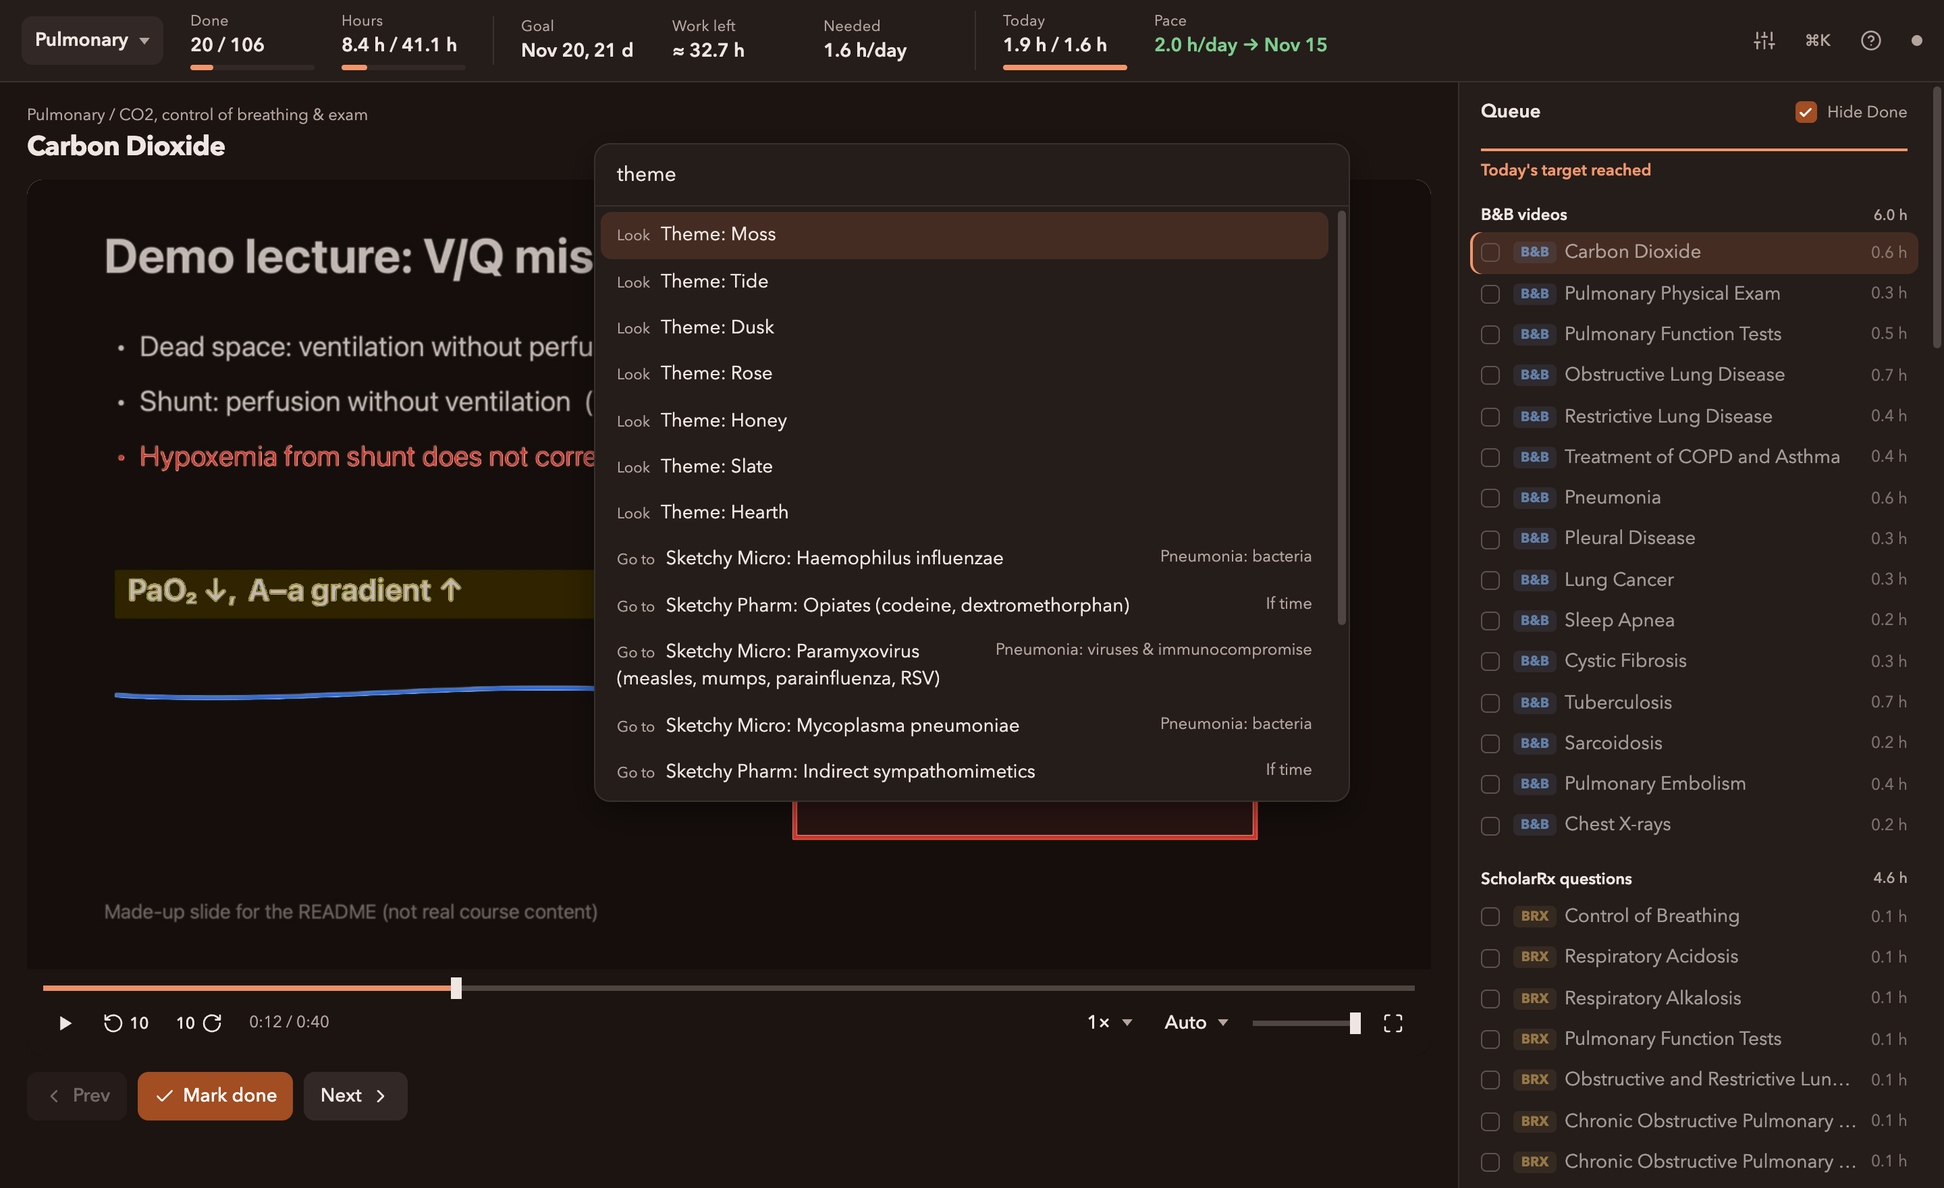
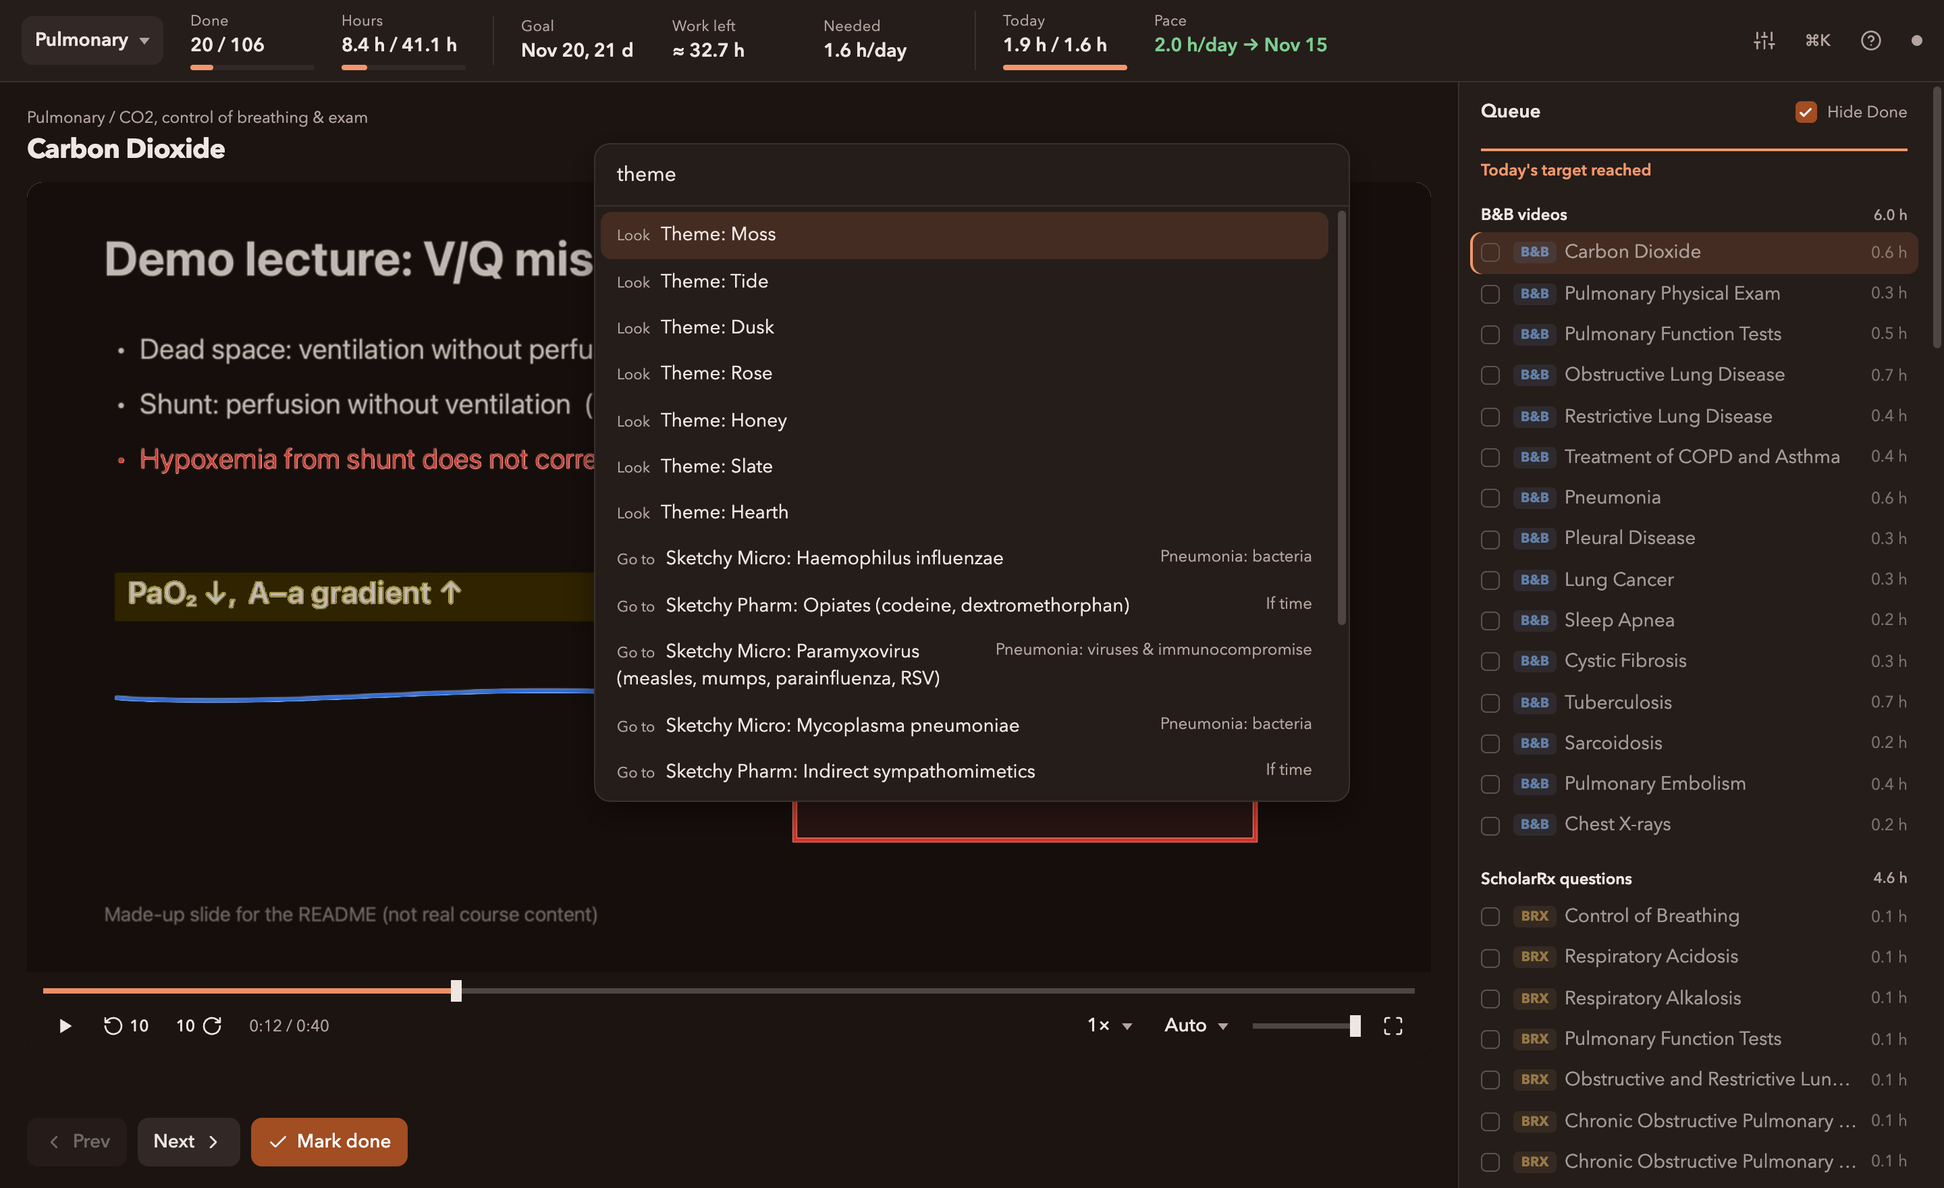
Keep controls in one place and stop video switches flashing
Prev and Next live in a fixed bar and come before Mark done, so they stay put
on every view. Titles and notes hold to one line, and bricks and AMBOSS share
one layout. A new video keeps the last picture up until its first frame at the
right spot is ready, and the slide-in between items is gone. Polls leave an
unchanged queue and header alone. Volume is remembered, and leaving the player
exits fullscreen.

diff --git a/static/app.js b/static/app.js
@@ -121,7 +121,7 @@ function renderStats() {
   }
   // three groups: overall progress | the goal and what it takes | today
   const group = (cls, ...stats) => `<div class="stat-group ${cls}">${stats.join("")}</div>`;
-  $("stats").innerHTML = [
+  const html = [
     group("",
       stat("Done", `${st.items.done} / ${st.items.count}`, "", st.items.done / st.items.count,
         `${st.items.videosDone}/${st.items.videos} videos`),
@@ -136,6 +136,9 @@ function renderStats() {
       stat("Today", `${hrs(st.todaySec)} / ${hrs(st.todayNeededSec)}`, "", st.todaySec / st.todayNeededSec),
       stat("Pace", pace, paceCls, null, "Last 3 study days → finish")),
   ].join("");
+  if (html === renderStats.html) { if (!$("settingsModal").hidden) renderSettingsResult(); return; }  // a poll with no news leaves the header alone
+  renderStats.html = html;
+  $("stats").innerHTML = html;
   animateStats();
   const goalGroup = $("stats").querySelector(".goal");
   goalGroup.dataset.tip = "Edit goal (,)";
@@ -261,7 +264,7 @@ function renderQueue() {
     }
     html += "</div>";
   }
-  $("queueList").innerHTML = html;
+  if (html !== renderQueue.html) $("queueList").innerHTML = renderQueue.html = html;
   syncQueue();
 }
 
@@ -330,6 +333,7 @@ function showItem(id) {
   $("ankiPanel").hidden = true;
   $("crumbs").textContent = `${S.block.name} / ${it.topic || it.cluster}`;
   $("itemTitle").textContent = it.title;
+  $("itemTitle").dataset.tip = it.title;
   $("itemNote").hidden = !it.note;
   $("itemNote").textContent = it.note || "";
   $("doneBtn").hidden = it.done;
@@ -341,29 +345,17 @@ function showItem(id) {
   $("player").hidden = !isVideo;
   $("task").hidden = isVideo;
   if (isVideo) setupVideo(it);
-  else { pauseVideo(); setupTask(it); }
+  else { pauseVideo(); setupTask(it); leaveFullscreen(); }
   document.querySelectorAll(".qi").forEach((el) => el.classList.toggle("current", el.dataset.id === curId));
   syncQueue();
-  entered(id, isVideo ? null : $("task"));
 }
-// Slide a new view in, from the side you're moving toward. Polling re-renders stay still.
-let shownView = null, navDir = 0;
-function entered(key, panel) {
-  if (key === shownView) return;
-  shownView = key;
-  cue($("itemHead"), "enter", navDir);
-  if (panel) cue(panel, "enter", navDir);
-  navDir = 0;
-}
-
 function setupTask(it) {
   const amb = it.type === "amboss";
   $("ambossFields").hidden = !amb;
-  $("brickLink").hidden = amb || !it.url;
-  if (it.url) $("brickLink").href = it.url;
-  $("taskKind").textContent = amb ? "AMBOSS questions" : "ScholarRx brick, end questions";
-  $("taskInstr").hidden = !amb;
-  $("taskInstr").textContent = amb ? `${it.questions} Q` : "";
+  $("taskLink").hidden = !amb && !it.url;
+  $("taskLink").href = amb ? "https://next.amboss.com/us/learning" : it.url || "";
+  $("taskLinkText").textContent = amb ? "Open AMBOSS" : "Open brick";
+  $("taskKind").textContent = amb ? `AMBOSS, ${it.questions} Q` : "ScholarRx brick, end questions";
   if (timer.id !== it.id) {  // first time showing this item (polling re-renders must not wipe input)
     timer.running = false;
     timer.id = it.id;
@@ -398,16 +390,56 @@ function setupVideo(it) {
     loadedVideoId = it.id;
     endShown = false;
     $("endCard").hidden = true;
+    freezeFrame();
+    const resume = it.pos > 5 && !(it.duration && it.pos >= it.duration - 20);
+    const l = loading = { it, resume };
+    clearTimeout(revealT);
+    revealT = setTimeout(() => l === loading && reveal(), 2000);
     video.src = `/media/${encodeURIComponent(blockId)}/${encodeURIComponent(it.id)}`;
-    video.addEventListener("loadedmetadata", () => {
-      if (it.pos > 5 && it.pos < video.duration - 20) video.currentTime = it.pos;
-      video.playbackRate = S.settings.rate || 1;
-    }, { once: true });
+    showTime(resume ? it.pos : 0, it.duration || 0);
   }
   rateDD.setValue(S.settings.rate || 1);
   darkDD.setValue(darkSetting(it));
-  applyDark(darkSetting(it));
+  if (!loading) applyDark(darkSetting(it));
 }
+
+// Changing a video's source blanks it, so the last picture stays up, as a copy,
+// until the new video has a frame at the right spot. Then they swap in one paint.
+let loading = null, revealT = 0;
+function freezeFrame() {
+  const fz = $("freeze"), gl = $("glcanvas");
+  if (!fz.hidden || video.readyState < 2) return;
+  const shaded = renderer && !gl.hidden;
+  if (shaded) renderer.drawNow();  // WebGL's buffer is only readable right after a draw
+  fz.width = shaded ? gl.width : video.videoWidth;
+  fz.height = shaded ? gl.height : video.videoHeight;
+  fz.getContext("2d").drawImage(shaded ? gl : video, 0, 0, fz.width, fz.height);
+  fz.style.filter = video.style.filter;
+  fz.hidden = false;
+}
+function frameReady() {
+  const l = loading;
+  if ("requestVideoFrameCallback" in video) video.requestVideoFrameCallback(() => l === loading && reveal());
+  setTimeout(() => l === loading && reveal(), 120);  // the frame may already be up, or the tab hidden
+}
+function reveal() {
+  const { it } = loading;
+  loading = null;
+  clearTimeout(revealT);
+  applyDark(darkSetting(it));
+  if (renderer && !$("glcanvas").hidden) renderer.settle();
+  $("freeze").hidden = true;
+  if (video.duration) showTime(video.currentTime, video.duration);
+}
+video.addEventListener("loadedmetadata", () => {
+  video.playbackRate = S.settings.rate || 1;
+  if (!loading) return;
+  if (loading.resume && loading.it.pos < video.duration - 20) video.currentTime = loading.it.pos;
+  else loading.resume = false;
+});
+video.addEventListener("loadeddata", () => { if (loading && !loading.resume) frameReady(); });
+video.addEventListener("seeked", () => { if (loading) frameReady(); });
+video.addEventListener("error", () => { if (loading) reveal(); });
 
 function setDark(mode) {
   const it = cur();
@@ -432,7 +464,7 @@ function applyDark(mode) {
   }
   const shaded = renderer && (mode === "smart" || mode === "invert");
   canvas.hidden = !shaded;
-  if (shaded) { renderer.setPlain(mode === "invert"); renderer.setTint(Theme.hue); renderer.start(); } else if (renderer) renderer.stop();
+  if (shaded) { renderer.setPlain(mode === "invert"); renderer.setTint(Theme.hue); renderer.start(); renderer.drawNow(); } else if (renderer) renderer.stop();
   video.style.filter = shaded ? "" : ({ invert: "invert(1) hue-rotate(180deg)", dim: "brightness(.78) contrast(1.05)" }[mode] || "");
 }
 Theme.onChange(() => {
@@ -461,23 +493,36 @@ function setRate(r) {
 function toggleFullscreen() {
   if (document.fullscreenElement) document.exitFullscreen(); else $("stage").requestFullscreen();
 }
+function leaveFullscreen() { if (document.fullscreenElement) document.exitFullscreen(); }  // only the player can be fullscreen
 
 $("playBtn").onclick = togglePlay;
 $("back10").onclick = () => seek(-10);
 $("fwd10").onclick = () => seek(10);
-$("vol").oninput = (e) => { video.volume = +e.target.value; video.muted = false; };
+$("vol").oninput = (e) => {
+  video.volume = +e.target.value;
+  video.muted = false;
+  try { localStorage.setItem("vidanki.volume", video.volume); } catch {}
+};
+try {
+  const v = parseFloat(localStorage.getItem("vidanki.volume"));
+  if (v >= 0 && v <= 1) { video.volume = v; $("vol").value = v; }
+} catch {}
 $("fsBtn").onclick = toggleFullscreen;
 $("seek").oninput = (e) => { if (video.duration) video.currentTime = (e.target.value / 1000) * video.duration; };
 $("picture").addEventListener("click", (e) => { if (!e.target.closest("#endCard")) togglePlay(); });
 $("playBtn").innerHTML = icon("play");
 video.addEventListener("play", () => ($("playBtn").innerHTML = icon("pause")));
 video.addEventListener("pause", () => ($("playBtn").innerHTML = icon("play")));
+function showTime(t, d) {
+  $("time").textContent = `${clock(t)} / ${clock(d)}` +
+    (video.playbackRate !== 1 ? `, ${clock((d - t) / video.playbackRate)} left` : "");
+  if (document.activeElement !== $("seek")) $("seek").value = d ? (t / d) * 1000 : 0;
+  $("seek").style.setProperty("--p", (d ? (t / d) * 100 : 0) + "%");
+}
 video.addEventListener("timeupdate", () => {
+  if (loading) return;  // the old position, or frame 0 before the resume seek lands
   const d = video.duration || 0;
-  $("time").textContent = `${clock(video.currentTime)} / ${clock(d)}` +
-    (video.playbackRate !== 1 ? `, ${clock((d - video.currentTime) / video.playbackRate)} left` : "");
-  if (document.activeElement !== $("seek")) $("seek").value = d ? (video.currentTime / d) * 1000 : 0;
-  $("seek").style.setProperty("--p", (d ? (video.currentTime / d) * 100 : 0) + "%");
+  showTime(video.currentTime, d);
   if (d && !endShown && video.currentTime >= d - 12) showEndCard();
 });
 video.addEventListener("ended", showEndCard);
@@ -584,8 +629,7 @@ $("timerReset").onclick = () => {
 
 // Opening the brick or AMBOSS starts the timer (it keeps running while you're in that tab).
 function startTimer() { if (!timer.running) { timer.running = true; Sound.play("start"); updateTimer(); } }
-$("brickLink").addEventListener("click", startTimer);
-$("ambLink").addEventListener("click", startTimer);
+$("taskLink").addEventListener("click", startTimer);
 
 // ---------- active-time tracking ----------
 let pending = 0, pauseRun = 0, sinceFlush = 0, last = performance.now(), playedThisItem = false;
@@ -676,6 +720,7 @@ function goNext() {
 function renderGate() {
   flushTime();
   pauseVideo();
+  leaveFullscreen();
   $("ankiPanel").hidden = true;
   $("player").hidden = true;
   $("task").hidden = true;
@@ -685,7 +730,6 @@ function renderGate() {
   $("itemNote").hidden = true;
   $("crumbs").textContent = S.block.name;
   $("itemTitle").textContent = "Anki first";
-  entered("gate", $("gate"));
   const g = S.anki.gate, next = nextPending(curId);
   const nextTitle = next ? next.title : "Next";
   const from = g && `${g.title}${g.others ? ` +${g.others}` : ""} → ${nextTitle}`;
@@ -736,13 +780,13 @@ function showAnki() {
 }
 function renderAnkiPanel() {
   pauseVideo();
+  leaveFullscreen();
   ["player", "task", "gate"].forEach((id) => ($(id).hidden = true));
   $("ankiPanel").hidden = false;
   $("doneBtn").hidden = true;
   $("undoneBtn").hidden = true;
   $("itemNote").hidden = true;
   $("crumbs").textContent = `${S.block.name} / Anki`;
-  entered("anki", $("ankiPanel"));
   const a = S.stats.ankiNow, r = S.stats.rates, g = S.anki.gate;
   // same three counts and colors as Anki's deck list
   const tile = (k, n, sec, cls) => `<div class="tile ${cls}"><div class="tile-num">${n}</div><div class="tile-k">${k}</div><div class="tile-t">${hrs(sec)}</div></div>`;
@@ -814,7 +858,6 @@ function queueOrder() {
 function step(dir) {
   if (view === "gate") {  // the gate is soft: Next moves on anyway, Prev goes back
     Sound.play("select");
-    navDir = dir;
     if (dir > 0) (S.anki.gate ? $("gateSkip") : $("gateNext")).onclick();
     else { view = "item"; showItem(curId); renderQueue(); }
     return;
@@ -828,7 +871,6 @@ function step(dir) {
     return;
   }
   Sound.play("select");
-  navDir = dir;
   if (id === "__anki") { showAnki(); return; }
   const it = flat.find((x) => x.id === id);
   if (dir > 0 && S.anki.gate && it.type === "video" && !it.done) {

diff --git a/static/style.css b/static/style.css
@@ -230,12 +230,16 @@ header { flex: none; display: flex; align-items: center; gap: var(--s4); padding
 .anki-dot.ok { background: var(--good); }
 
 /* ---------- layout ---------- */
-main { flex: 1; min-height: 0; display: grid; grid-template-columns: 1fr 360px; }
-#center { padding: var(--s4) var(--s5); overflow: auto; min-width: 0; }
-#itemHead h1 { font-size: var(--t-lg); line-height: 1.2; letter-spacing: -.02em; margin: 2px 0 var(--s3); }
-.crumbs { color: var(--muted); font-size: var(--t-sm); }
-.note { display: inline-block; margin-bottom: var(--s2); padding: 2px var(--s2); border-radius: var(--r-xs); background: var(--panel2); color: var(--muted); font-size: var(--t-sm); font-weight: 500; }
-.actions { margin-top: var(--s3); }
+main { flex: 1; min-height: 0; display: grid; grid-template-columns: 1fr 360px; grid-template-rows: minmax(0, 1fr); }
+/* the view scrolls if it must; the action bar below it never moves */
+#center { display: flex; flex-direction: column; min-width: 0; min-height: 0; padding: var(--s4) var(--s5); }
+#view { flex: 1; min-height: 0; margin: -4px; padding: 4px; overflow: auto; }
+/* one line each, so the picture and panels start at the same height for every item */
+.crumb-row { display: flex; align-items: center; gap: var(--s2); min-height: 20px; }
+.crumbs { min-width: 0; overflow: hidden; color: var(--muted); font-size: var(--t-sm); text-overflow: ellipsis; white-space: nowrap; }
+.note { flex: none; padding: 0 6px; border-radius: var(--r-xs); background: var(--panel2); color: var(--muted); font-size: var(--t-xs); font-weight: 500; line-height: 18px; }
+#itemHead h1 { overflow: hidden; font-size: var(--t-lg); line-height: 1.2; letter-spacing: -.02em; margin: 2px 0 var(--s3); text-overflow: ellipsis; white-space: nowrap; }
+.actions { flex: none; flex-wrap: nowrap; margin-top: var(--s3); }
 
 /* ---------- player: picture on top, controls in their own strip below ---------- */
 #stage { display: flex; flex-direction: column; background: #000; border-radius: var(--r-lg); overflow: hidden; }
@@ -285,7 +289,6 @@ main { flex: 1; min-height: 0; display: grid; grid-template-columns: 1fr 360px; 
 .task-sec { padding: var(--s4) var(--s5); }
 .task-sec + .task-sec { border-top: 1px solid var(--line); }
 .sec-label { font-size: var(--t-sm); color: var(--muted); font-weight: 600; margin-bottom: var(--s2); }
-#taskInstr { margin: 0 0 var(--s3); color: var(--muted); }
 .fields { display: flex; gap: var(--s3); align-items: end; flex-wrap: wrap; }
 .fields label { display: flex; flex-direction: column; gap: var(--s1); color: var(--muted); font-size: var(--t-sm); }
 .timer { display: flex; align-items: center; gap: var(--s2); }
@@ -444,7 +447,6 @@ button.quiet { background: transparent; color: var(--muted); }
 @keyframes nudge { 30% { transform: translateX(calc(var(--dir, 1) * 6px)); } 65% { transform: translateX(calc(var(--dir, 1) * -2px)); } }
 @keyframes rubber { 35% { transform: translateY(calc(var(--dir, 1) * -10px)); } }
 @keyframes bump { 40% { transform: scale(1.1); color: var(--accent); } }
-@keyframes enter { from { opacity: 0; transform: translateX(calc(var(--dir, 0) * 16px)); } }
 @keyframes pop { 45% { transform: scale(1.3); } }
 @keyframes draw { from { stroke-dashoffset: 30; } }
 @keyframes spin { to { transform: rotate(360deg); } }
@@ -452,7 +454,6 @@ button.quiet { background: transparent; color: var(--muted); }
 .nudge { animation: nudge 280ms var(--ease); }
 .rubber { animation: rubber 340ms var(--ease); }
 .bump { animation: bump 340ms var(--ease); transform-origin: left center; }
-.enter { animation: enter var(--med) var(--ease); }
 /* switching theme, mode or font crossfades */
 .theming, .theming * { transition: background-color var(--med) var(--ease), color var(--med) var(--ease), border-color var(--med) var(--ease) !important; }
 @media (prefers-reduced-motion: reduce) {
@@ -462,10 +463,13 @@ button.quiet { background: transparent; color: var(--muted); }
 
 /* ---------- phone ---------- */
 @media (max-width: 900px) {
-  body { display: block; height: auto; overflow: auto; }  /* one scrolling page */
+  body { display: block; height: auto; padding-bottom: 52px; overflow: auto; }  /* one scrolling page */
   main { grid-template-columns: 1fr; }
   #queue { border-left: 0; border-top: 1px solid var(--line); }
-  #center { padding: var(--s3) var(--s4); }
+  #center { display: block; padding: var(--s3) var(--s4) 0; }
+  #view { margin: 0; padding: 0; overflow: visible; }
+  .actions { position: fixed; left: 0; right: 0; bottom: 0; z-index: 4; margin: 0; padding: var(--s2) var(--s4); border-top: 1px solid var(--line); background: var(--panel); }
+  .toast { bottom: 64px; }
   header { flex-wrap: wrap; gap: var(--s2); padding: var(--s2) var(--s4); }
   .stats { order: 3; flex-basis: 100%; gap: var(--s3); }
   .stat-group { border-left: 0; padding: 0; gap: var(--s4); }

diff --git a/static/index.html b/static/index.html
@@ -24,10 +24,13 @@
 
 <main>
   <section id="center">
+    <div id="view">
     <div id="itemHead">
-      <div class="crumbs" id="crumbs"></div>
-      <h1 id="itemTitle">Loading…</h1>
-      <div id="itemNote" class="note" hidden></div>
+      <div class="crumb-row">
+        <div class="crumbs" id="crumbs"></div>
+        <div id="itemNote" class="note" hidden></div>
+      </div>
+      <h1 id="itemTitle" data-clip>Loading…</h1>
     </div>
 
     <!-- video player -->
@@ -37,6 +40,7 @@
         <div id="picture">
           <video id="video" playsinline preload="metadata"></video>
           <canvas id="glcanvas"></canvas>
+          <canvas id="freeze" hidden></canvas>
           <div id="picFlash" class="pic-flash"></div>
           <div id="endCard" class="overlay-card" hidden>
             <div class="oc-title">Finished?</div>
@@ -68,13 +72,7 @@
     <div id="task" class="panel task" hidden>
       <div class="task-sec">
         <div class="sec-label" id="taskKind">ScholarRx brick</div>
-        <p id="taskInstr"></p>
-        <a id="brickLink" class="btn primary" target="_blank" rel="noopener">Open brick<i data-icon="external"></i></a>
-        <div id="ambossFields" class="fields" hidden>
-          <label>Questions done <input type="number" id="ambN" min="0" inputmode="numeric"></label>
-          <label>Correct <input type="number" id="ambC" min="0" inputmode="numeric"></label>
-          <a id="ambLink" class="btn primary" href="https://next.amboss.com/us/learning" target="_blank" rel="noopener">Open AMBOSS<i data-icon="external"></i></a>
-        </div>
+        <a id="taskLink" class="btn primary" target="_blank" rel="noopener"><span id="taskLinkText">Open brick</span><i data-icon="external"></i></a>
       </div>
       <div class="task-sec">
         <div class="sec-label">Time spent</div>
@@ -84,6 +82,13 @@
           <button id="timerBtn" class="t-start" aria-label="Start or pause timer"></button>
           <button id="timerEditBtn" class="icon-btn boxed" aria-label="Edit time" data-tip="Edit time"><i data-icon="pencil"></i></button>
           <button id="timerReset" class="icon-btn boxed" aria-label="Reset time" data-tip="Reset time"><i data-icon="reset"></i></button>
+        </div>
+      </div>
+      <div class="task-sec" id="ambossFields" hidden>
+        <div class="sec-label">Score</div>
+        <div class="fields">
+          <label>Questions done <input type="number" id="ambN" min="0" inputmode="numeric"></label>
+          <label>Correct <input type="number" id="ambC" min="0" inputmode="numeric"></label>
         </div>
       </div>
     </div>
@@ -119,12 +124,14 @@
       </div>
       <div class="task-sec anki-notes" id="ankiSub"></div>
     </div>
+    </div>
 
+    <!-- stays in one spot on every view; Prev and Next come first so a changing Mark done can't move them -->
     <div id="actions" class="row actions">
       <button id="prevBtn" data-tip="Previous item (P)"><i data-icon="chevron-left"></i>Prev</button>
+      <button id="nextBtn" data-tip="Next item (N)">Next<i data-icon="chevron-right"></i></button>
       <button class="primary" id="doneBtn">Mark done</button>
       <button id="undoneBtn" hidden>Mark not done</button>
-      <button id="nextBtn" data-tip="Next item (N)">Next<i data-icon="chevron-right"></i></button>
     </div>
   </section>
 

diff --git a/static/shader.js b/static/shader.js
@@ -190,6 +190,9 @@ window.SmartDark = (function () {
     new ResizeObserver(kick).observe(canvas);
     return {
       start() { running = true; kick(); },
+      drawNow: draw,
+      // first frame of a new video: find its bars before anything is shown
+      settle() { detectBars(); detectBars(); draw(); },
       setPlain(v) { gl.useProgram(prog); gl.uniform1f(uPlain, v ? 1 : 0); kick(); },
       setTint(hue) {
         const a = hue * Math.PI / 180;
